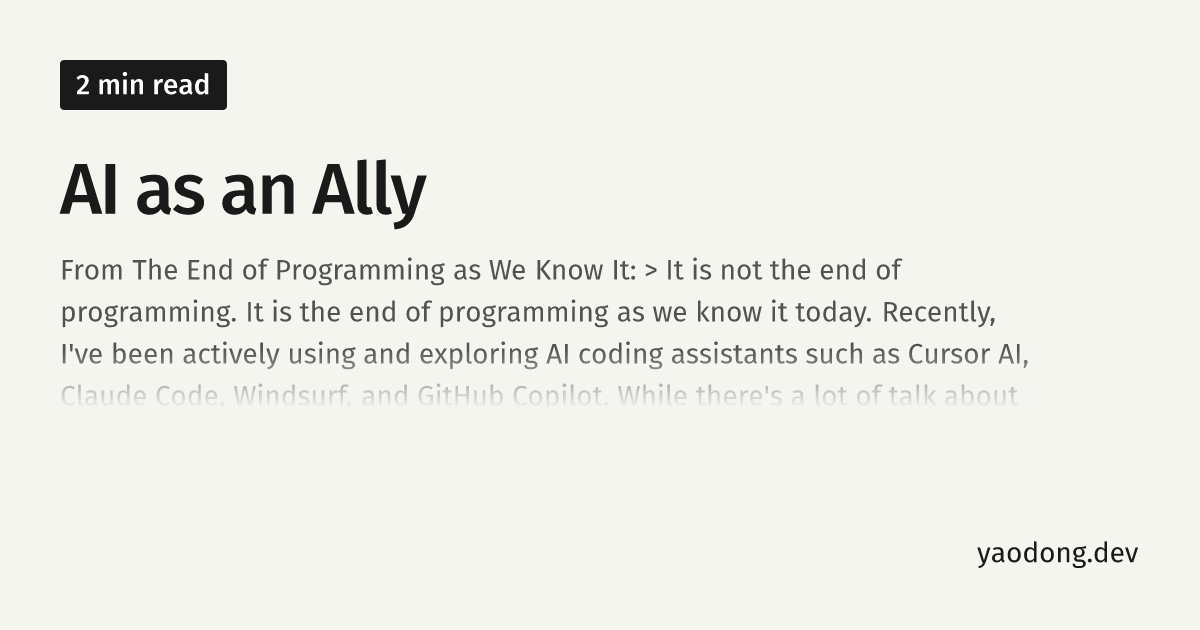
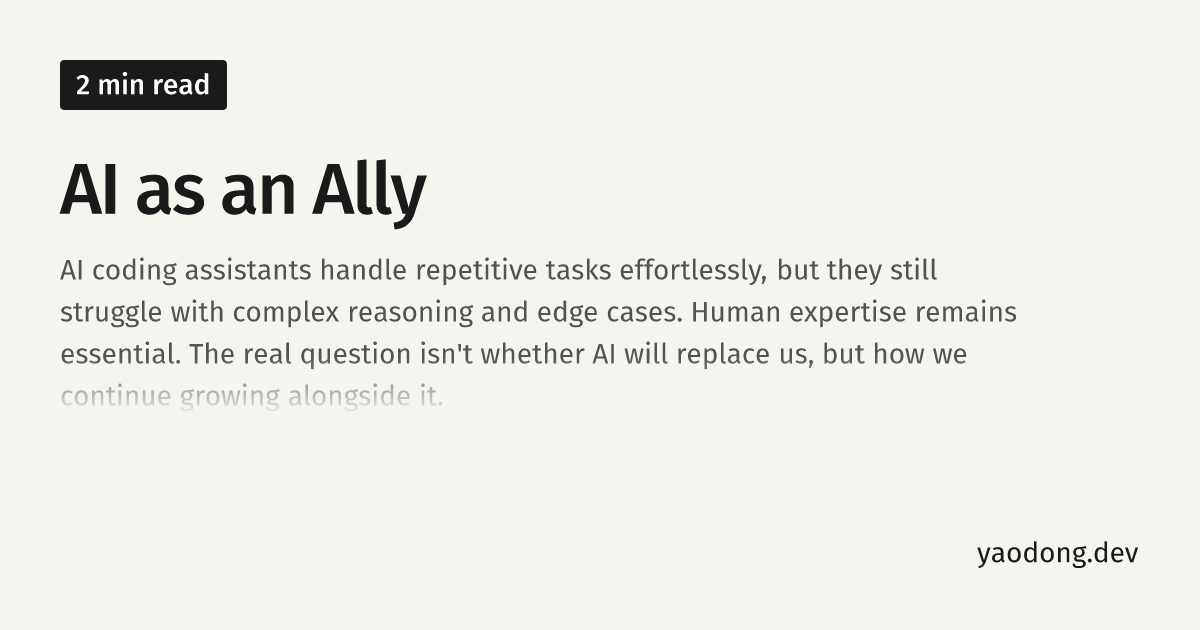
Revise 'About' page content for clarity and personal insight; enhance archive and index layouts with year grouping and improved post card design; update CSS for better styling; add excerpts to several posts for improved visibility.

Changed region(s): [[0.0308, 0.4825, 0.8633, 0.6635], [0.0308, 0.3921, 0.8017, 0.4524]]

diff --git a/_assets/stylesheets/application.css b/_assets/stylesheets/application.css
@@ -119,6 +119,7 @@ a:hover {
   color: var(--color-text-secondary);
   font-size: 0.875rem;
   font-family: var(--font-heading);
+  font-weight: 500;
   letter-spacing: 0.01em;
 }
 
@@ -196,7 +197,79 @@ a:hover {
   border-left-width: 3px;
 }
 
-/* Post list item */
+/* Post list */
+.post-list {
+  display: flex;
+  flex-direction: column;
+  gap: 0;
+}
+
+/* Post card with excerpt */
+.post-card {
+  padding: 1.25rem 0;
+  border-bottom: 1px solid var(--color-border);
+}
+
+.post-card:first-child {
+  padding-top: 0;
+}
+
+.post-card:last-child {
+  border-bottom: none;
+  padding-bottom: 0;
+}
+
+.post-card-header {
+  display: flex;
+  align-items: baseline;
+  justify-content: space-between;
+  gap: 1rem;
+  margin-bottom: 0.5rem;
+}
+
+.post-card-title {
+  font-family: var(--font-body);
+  font-size: 1.125rem;
+  font-weight: 500;
+  color: var(--color-text);
+  line-height: 1.4;
+}
+
+.post-card-title:hover {
+  color: var(--color-accent);
+}
+
+.post-card-header time {
+  font-family: var(--font-heading);
+  font-size: 0.8125rem;
+  color: var(--color-text-secondary);
+  white-space: nowrap;
+  flex-shrink: 0;
+}
+
+.post-card-excerpt {
+  font-size: 0.9375rem;
+  color: var(--color-text-secondary);
+  line-height: 1.6;
+  margin: 0;
+}
+
+/* Archive year heading */
+.archive-year {
+  font-size: 1.25rem;
+  font-weight: 500;
+  color: var(--color-text);
+  margin-top: 2rem;
+  margin-bottom: 0.5rem;
+  padding-bottom: 0.5rem;
+  border-bottom: 2px solid var(--color-accent);
+}
+
+.archive-year:first-of-type {
+  margin-top: 0;
+}
+
+/* Legacy post list item (for archive) */
 .post-item {
   display: flex;
   align-items: baseline;

diff --git a/index.html b/index.html
@@ -11,18 +11,23 @@ title: Yaodong Zhao
   </header>
 
   {% if posts.size > 0 %}
-  <ul>
+  <div class="post-list">
     {% for post in posts limit:10 %}
-    <li class="post-item">
-      <a href="{{ post.url | relative_url }}">
-        {{ post.title }}
-      </a>
-      <time datetime="{{ post.created_date | date: '%Y-%m-%d' }}">
-        {{ post.created_date | date: "%b %d, %Y" }}
-      </time>
-    </li>
+    <article class="post-card">
+      <header class="post-card-header">
+        <a href="{{ post.url | relative_url }}" class="post-card-title">
+          {{ post.title }}
+        </a>
+        <time datetime="{{ post.created_date | date: '%Y-%m-%d' }}">
+          {{ post.created_date | date: "%b %d, %Y" }}
+        </time>
+      </header>
+      <p class="post-card-excerpt">
+        {% if post.excerpt != post.content %}{{ post.excerpt | strip_html }}{% else %}{{ post.content | strip_html | truncatewords: 100 }}{% endif %}
+      </p>
+    </article>
     {% endfor %}
-  </ul>
+  </div>
   {% else %}
   <p class="meta">No posts found.</p>
   {% endif %}

diff --git a/archive.html b/archive.html
@@ -5,6 +5,7 @@ permalink: /archive/
 ---
 
 {% assign posts = site.posts | sort: "created_date" | reverse %}
+{% assign posts_by_year = posts | group_by_exp: "post", "post.created_date | date: '%Y'" %}
 
 <section class="content-card">
   <header class="mb-8">
@@ -13,18 +14,21 @@ permalink: /archive/
   </header>
 
   {% if posts.size > 0 %}
+  {% for year in posts_by_year %}
+  <h2 class="archive-year">{{ year.name }}</h2>
   <ul>
-    {% for post in posts %}
+    {% for post in year.items %}
     <li class="post-item">
       <a href="{{ post.url | relative_url }}">
         {{ post.title }}
       </a>
       <time datetime="{{ post.created_date | date: '%Y-%m-%d' }}">
-        {{ post.created_date | date: "%b %d, %Y" }}
+        {{ post.created_date | date: "%b %d" }}
       </time>
     </li>
     {% endfor %}
   </ul>
+  {% endfor %}
   {% else %}
   <p class="meta">No posts published yet.</p>
   {% endif %}

diff --git a/scripts/generate-og-image.ts b/scripts/generate-og-image.ts
@@ -66,7 +66,7 @@ async function generateOgImage(postPath: string) {
     .replace(/```[\s\S]*?```/g, "") // Remove fenced code blocks
     .replace(/`[^`]+`/g, ""); // Remove inline code
   
-  let description = data.custom_excerpt || data.description || "";
+  let description = data.excerpt || data.custom_excerpt || data.description || "";
   if (!description) {
     const paragraphs = contentWithoutCode
       .split(/\n\n+/)
@@ -179,7 +179,7 @@ async function generateOgImage(postPath: string) {
                                 flexDirection: "column",
                                 position: "relative",
                                 maxWidth: "90%",
-                                maxHeight: "160px",
+                                maxHeight: "200px",
                                 overflow: "hidden",
                               },
                               children: [

diff --git a/about.md b/about.md
@@ -1,8 +1,14 @@
 ---
 layout: page
-title: Hello, I'm Yaodong Zhao 👋
+title: About
 ---
 
-I'm a passionate software engineer with a deep interest in building elegant solutions to complex problems. During the day, I work with Python and Java ecosystems to build robust enterprise applications. By night, I explore modern web technologies, crafting side projects with React and Ruby on Rails. I specialize in creating efficient, scalable, and user-friendly applications that make a real impact.
+I'm Yaodong Zhao, a software engineer.
 
-I'm always open to interesting conversations and collaboration opportunities. Connect with me on [LinkedIn](https://www.linkedin.com/in/yaodong/), check out my projects on [GitHub](https://github.com/yaodong), or follow me on [X (Twitter)](https://x.com/YaodongDev) for tech updates and discussions.
+I build web applications. But what keeps me interested isn't the building itself. It's the questions that surface along the way. Why did the designers make this trade-off? What gets lost when we optimize for convenience? When a constraint feels limiting, is it a flaw, or is it the point?
+
+These days, I've been exploring AI coding tools, trying to understand what changes when the tool starts thinking alongside you. It's a strange shift: watching something else write code while you guide it, wondering where your judgment ends and its suggestions begin.
+
+That's part of why I write here. AI can summarize solutions, but it can't capture what it felt like to find them. The dead ends, the debugging at midnight, the trade-offs made under constraints nobody else will see. I want to hold onto those details, even the ordinary ones. They're what actually happened.
+
+So this space is part technical blog, part thinking-out-loud. Software, design decisions, and sometimes a connection to something further afield. If you want to talk, find me on [LinkedIn](https://www.linkedin.com/in/yaodong/), [GitHub](https://github.com/yaodong), or [X](https://x.com/YaodongDev).

diff --git a/_posts/2025-12-23-context-is-a-choice.md b/_posts/2025-12-23-context-is-a-choice.md
@@ -3,6 +3,7 @@ layout: post
 title: Context Is a Choice
 created_date: 2025-12-23T00:00:00.000Z
 image: /assets/images/og/2025-12-23-context-is-a-choice.png
+excerpt: "A patient named Elliot lost the ability to make decisions after brain surgery. Not because he couldn't think, but because he analyzed too well. Without emotions to filter options, all choices seemed equally important. Damasio's insight applies to AI: constraints aren't obstacles to decision-making; they're prerequisites for it."
 ---
 
 In the 1990s, neuroscientist Antonio Damasio encountered a strange patient. His name was Elliot, and he'd had surgery to remove a brain tumor, which also damaged a small region of his prefrontal cortex. After the surgery, his IQ tested normal. Logical reasoning, normal. Memory, normal. Every cognitive measure came back fine. But he could no longer function in daily life.

diff --git a/_posts/2025-03-23-who-is-nextjs-built-for.md b/_posts/2025-03-23-who-is-nextjs-built-for.md
@@ -3,6 +3,7 @@ layout: post
 title: Who Is Next.js Built For?
 created_date: 2025-03-23T00:00:00.000Z
 image: /assets/images/og/2025-03-23-who-is-nextjs-built-for.png
+excerpt: "A critical middleware vulnerability exposed an uncomfortable question: are Next.js's architectural choices serving developers, or Vercel's platform? When complexity feels tied to infrastructure rather than genuine developer needs, it's worth asking who the framework is really built for."
 ---
 
 Yesterday (March 22, 2025), a [critical vulnerability](https://github.com/advisories/GHSA-f82v-jwr5-mffw) in Next.js Middleware was publicly disclosed. If you're unfamiliar with this issue, Rachid Allam offers a comprehensive overview in the article [Next.js and the Corrupt Middleware: The Authorizing Artifact](https://zhero-web-sec.github.io/research-and-things/nextjs-and-the-corrupt-middleware).

diff --git a/_posts/2025-12-20-building-reliable-llm-streaming-in-rails.md b/_posts/2025-12-20-building-reliable-llm-streaming-in-rails.md
@@ -3,6 +3,7 @@ layout: post
 title: Building Reliable LLM Streaming in Rails
 created_date: 2025-12-20T00:00:00.000Z
 image: /assets/images/og/2025-12-20-building-reliable-llm-streaming-in-rails.png
+excerpt: "My first attempt used Turbo Streams for LLM responses. Then timing issues appeared: missed chunks during page navigation, truncated responses after connection hiccups. The problem wasn't my code. It was the architecture. Here's what I built instead."
 ---
 
 When I started building an AI chatbot, my first instinct was to reach for Turbo Streams and Active Job. Users would send a message, a background job would call the LLM API, and Turbo Streams would broadcast each chunk to the browser. It felt like the right approach: clean separation of concerns, proper use of job infrastructure for long-running tasks.

diff --git a/_posts/2025-05-12-hotwire-native-bridge-component-messaging.md b/_posts/2025-05-12-hotwire-native-bridge-component-messaging.md
@@ -3,6 +3,7 @@ layout: post
 title: Understanding Bridge Component Messaging in Hotwire Native
 created_date: 2025-05-12T00:00:00.000Z
 image: /assets/images/og/2025-05-12-hotwire-native-bridge-component-messaging.png
+excerpt: "Bridge components in Hotwire Native intentionally hide navigation from native code. This felt limiting at first. Then I understood: by restricting native-side navigation, Hotwire ensures web and native stay synchronized through URLs. The constraint is the feature."
 ---
 
 In Hotwire Native, a Bridge Component simultaneously exists in JavaScript and native code. The interaction begins from JavaScript by calling `send(event, data, callback)`. The native side receives a structured `Message` object, processes it, and replies by calling `reply(...)`.

diff --git a/_posts/2024-01-28-the-self-and-singleton-class-in-ruby.md b/_posts/2024-01-28-the-self-and-singleton-class-in-ruby.md
@@ -4,6 +4,7 @@ title: The Self and Singleton Class in Ruby
 created_date: 2024-01-28T00:00:00.000Z
 updated_date: 2024-08-06T00:00:00.000Z
 image: /assets/images/og/2024-01-28-the-self-and-singleton-class-in-ruby.png
+excerpt: "In Ruby, class methods don't actually exist. They're instance methods living on an object's singleton class. Understanding this distinction clarifies why instance_eval and class_eval behave counterintuitively, and reveals the elegant consistency beneath Ruby's metaprogramming surface."
 ---
 
 In Ruby, everything is an object, and every object has an anonymous class, which defines the methods the object can respond to. This anonymous class is called the _singleton class_.

diff --git a/_posts/2024-08-14-fixing-missing-css-in-rails-production.md b/_posts/2024-08-14-fixing-missing-css-in-rails-production.md
@@ -1,10 +1,10 @@
 ---
 layout: post
 title: Fixing Missing Assets Files in Rails Production
-excerpt: A simple Rails asset issue evolved into a complex debugging journey.
 created_date: 2024-08-14T00:00:00.000Z
 updated_date: 2024-08-14T00:00:00.000Z
 image: /assets/images/og/2024-08-14-fixing-missing-css-in-rails-production.png
+excerpt: "A missing CSS file led me down three separate rabbit holes. A missing directory, a debug flag, a MIME type mismatch. Each fix revealed another problem hiding underneath. Here's what I learned about the Rails asset pipeline."
 ---
 
 Recently, I ran into a frustrating issue where `application.css` couldn't ebe found in my Rails app.

diff --git a/_posts/2025-01-31-shake-things-up.md b/_posts/2025-01-31-shake-things-up.md
@@ -3,6 +3,7 @@ layout: post
 title: Shake Things Up
 created_date: 2025-01-31T00:00:00.000Z
 image: /assets/images/og/2025-01-31-shake-things-up.png
+excerpt: "The new year brings a return to writing, plus experiments with Neovim, Tana, and Cursor AI. While AI can generate answers, it can't capture the trade-offs made under constraints or the personal experiences that shape decisions. Those details still matter."
 ---
 
 Maybe it's the start of a new year that’s motivating me to shake things up, and the first step is getting back into writing.
